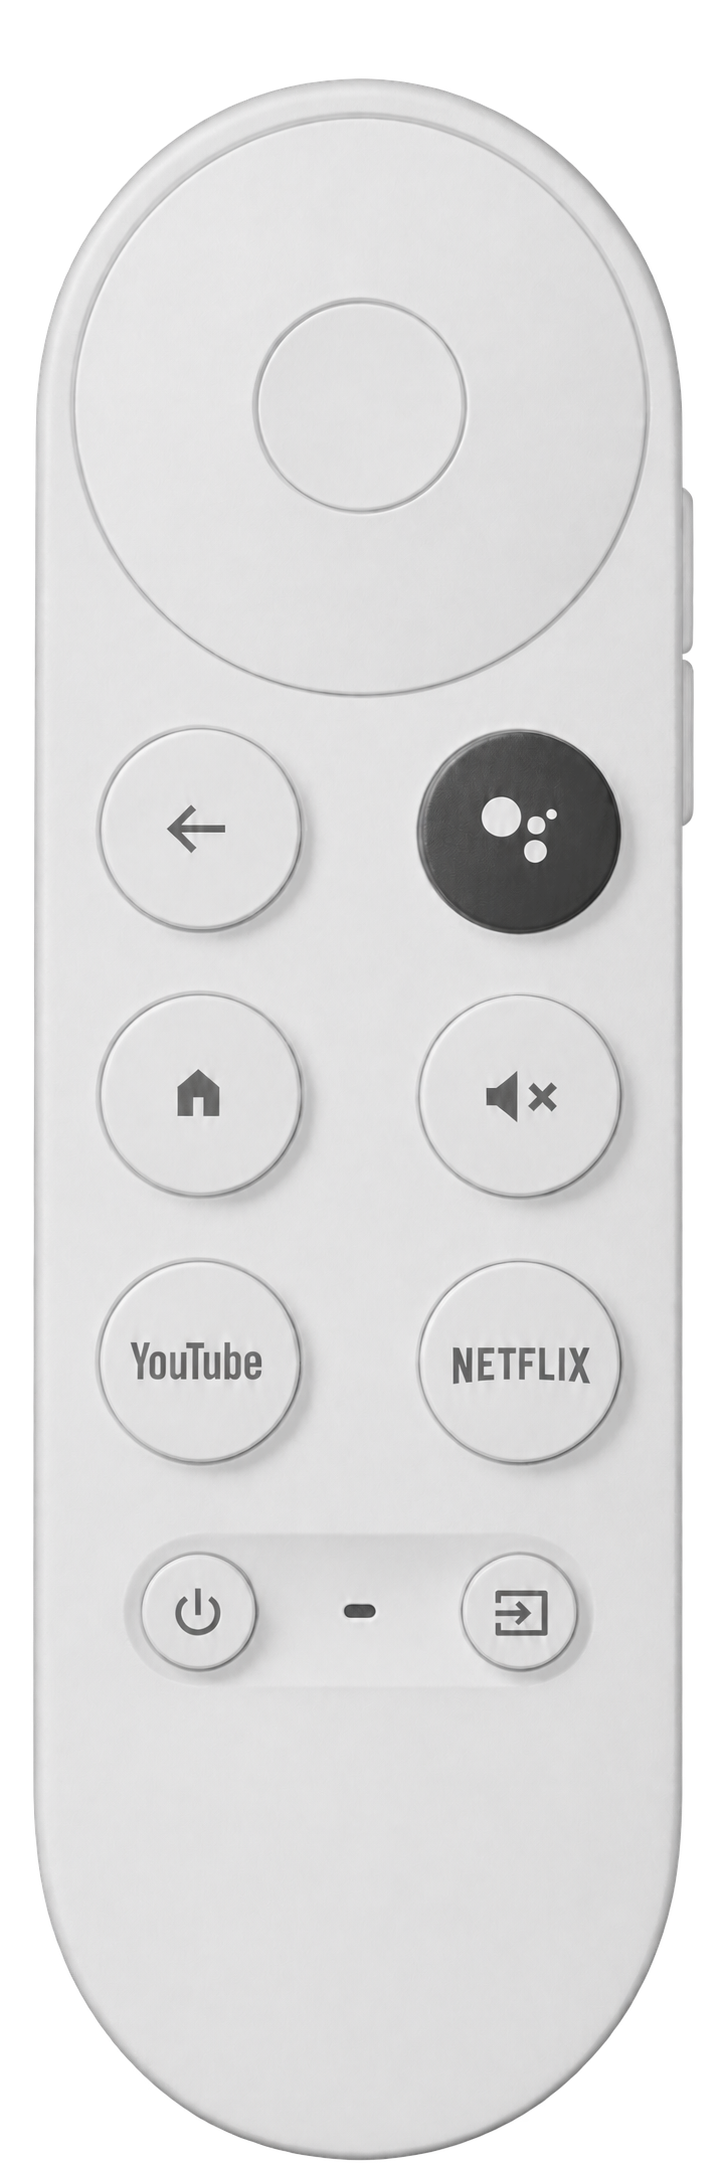
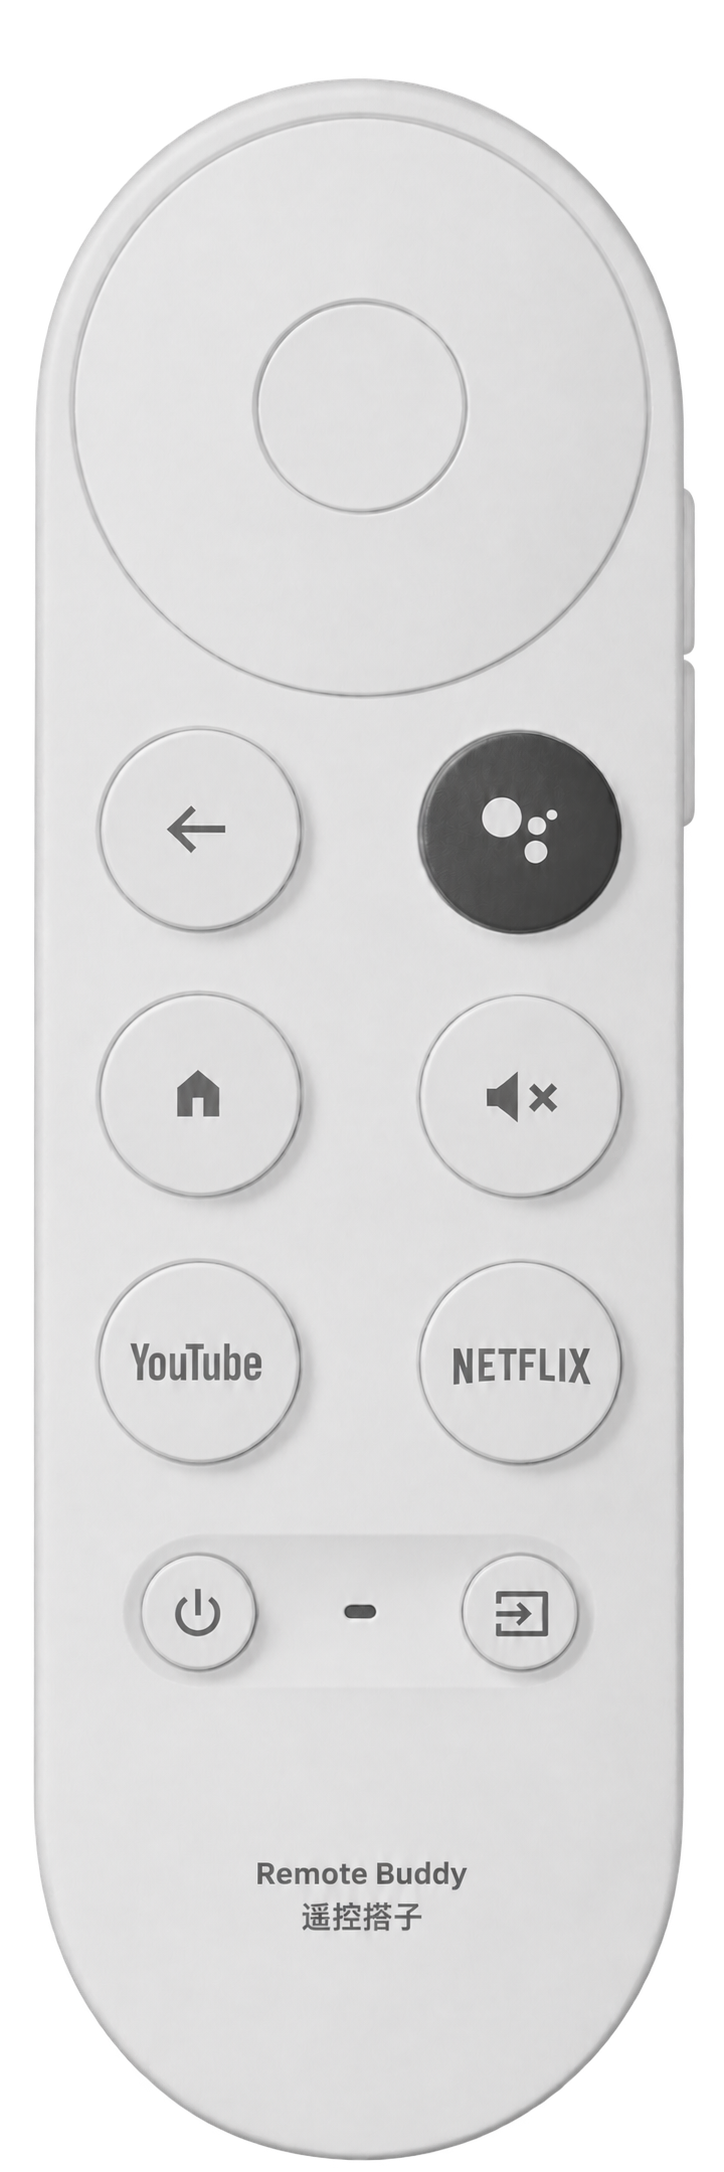
chore(assets): label the G9N9N remote photo

diff --git a/Resources/RemoteIllustrations/README.md b/Resources/RemoteIllustrations/README.md
@@ -41,4 +41,4 @@ After changing the drawing, regenerate the PNG and check the mapping page:
 swift scripts/generate-remote-layout-reference.swift Resources/BuddyRemoteIllustration.png
 ```
 
-The app uses the supplied real photograph in `Resources/ChromecastG9N9NPhoto.png`, with its background removed. The website uses the supplied handheld and side-by-side photographs. It has no SVG source. Button connector anchors follow the photograph.
+The app uses the supplied real photograph in `Resources/ChromecastG9N9NPhoto.png`, with its background removed and small “Remote Buddy / 遥控搭子” text on the lower body. The website uses the supplied handheld and side-by-side photographs. It has no SVG source. Button connector anchors follow the photograph.
